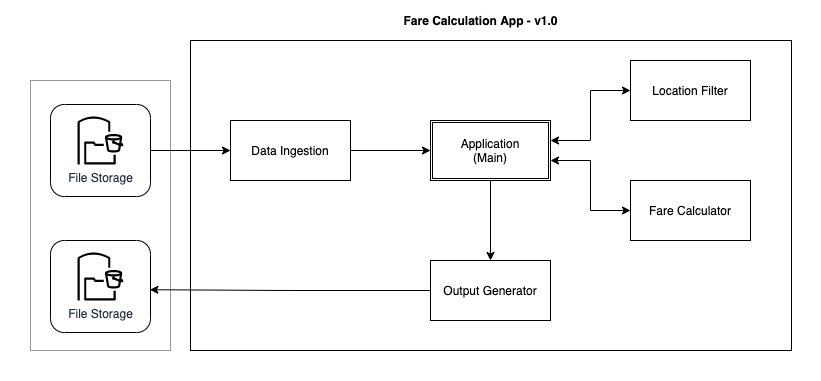
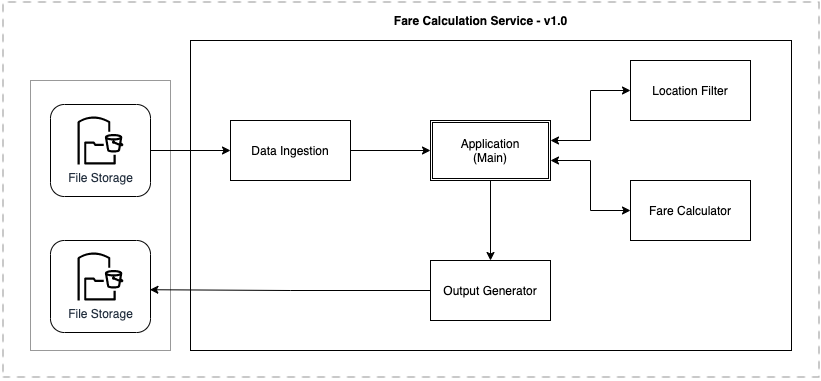
Completed Docs, #8

diff --git a/README.md b/README.md
@@ -1,1 +1,99 @@
 # Fare Calculation Service #
+
+
+[![Build, Test](https://github.com/naeemark/fare-calculation-service/actions/workflows/cicd.yaml/badge.svg)](https://github.com/naeemark/fare-calculation-service/actions/workflows/cicd.yaml)
+[![Coverage](https://sonarcloud.io/api/project_badges/measure?project=naeemark_fcs&metric=coverage)](https://sonarcloud.io/summary/new_code?id=naeemark_fcs)
+[![Quality Gate Status](https://sonarcloud.io/api/project_badges/measure?project=naeemark_fcs&metric=alert_status)](https://sonarcloud.io/summary/new_code?id=naeemark_fcs)
+
+Demonstration of Requirements understanding, proposing a solution and implementation by using the latest tools and techniques.
+
+---
+
+## Distribution ##
+- A Dockerized `maven` application.
+- **[Sonar Project](https://sonarcloud.io/dashboard?id=naeemark_fcs)** - **Bonus Requirement**
+
+---
+
+### What is this repository for? ###
+
+* This app is built as assignment for Beat - NL.
+* Adds different libs to enhance the application quality and performance.
+* CI/CD Demonstration using [Github Actions](https://github.com/features/actions)
+* Docker containers are used for Packaging and execution
+* Version 1.0.0
+
+---
+
+### Problem Statement:
+- Provide a solution to estimate ride fares as per the provided scenarios.
+
+---
+### Proposed Solution:
+
+- By keeping the provided instructions in mind, I would prefer to build a Java application for the implementation of required functionality.
+- For unit testing, I would prefer to use JUnit and Mockito.
+
+### Architecture Diagram
+![App Architecture](screenshots/fare-calculation-app.png)
+
+#### Services
+- **Data Ingestion**: Responsible for reading the input data
+- **Location Filtration**: Responsible for sanitization of locations of rides
+- **Fare Calculator**: Responsible to calculate the fare as per the provided instructions
+- **Application**: A main class to perform the end to end functionality
+
+
+### Development Cycle:
+- Distributes the whole development into Small tasks
+- [Each Issue](https://github.com/naeemark/fare-calculation-service/issues?q=is%3Aissue) shows a feature
+- [Each commit](https://github.com/naeemark/fare-calculation-service/commits/main) shows a small progress
+- [Pull Requests](https://github.com/naeemark/fare-calculation-service/pulls?q=is%3Apr+is%3Aclosed) are done for major tasks
+
+## How do I get Run? ##
+
+### How to set up
+To set-up locally the project locally you need to clone this repo, from `main` branch or some latest `TAG`
+
+### Configuration
+- Please sync and resolve the `maven` dependencies
+- Run `mvn clean install`
+- To run tests `mvn clean test`
+
+
+### Using Docker Compose
+- `docker-compose up --build` will do the magic for you, you may skip `--build` after the first time
+- [Docker-compose](docker-compose.yaml) file includes required parameter of sample input in `command` section
+  - For testing purpose, provide sample data is also included in repo
+    - [Input Data](data/paths.csv)
+    - [Output Data](data/paths.csv.output)
+- After the execution the docker container will be stopped.
+
+
+### How the Solution Works
+- **A:** Docker compose command leads to invoke the `Application::main()` along with the arguments containing path to input data file.
+- **B:** At first step, the application reads the `locations` data from the provided CSV
+- **C:** Secondly, same service is called again to split the `locations-data-list` into smaller, as per the rideIds of locations.
+- **D:** On the next stage, another service is invoked, which performs a full sanitization on all the ride location lists, and it also adds calculated attributes(i.e duration, speed, distance) to the Models to avoid re-processing.
+- **E:** Now the next service is used to calculate the faire for each step/location for every ride.
+- **F:** Lastly, the estimated fare is written to an output file in same directory of input along with respective rideId.
+
+### Pre-reqs
+- JDK 1.8
+- Docker
+- Junit
+- IntelliJ IDEA
+
+
+### Tools Included
+- Jacoco
+- Sonar
+- Github Actions
+
+
+## External Tools: ##
+
+- **[Github Actions](https://github.com/features/actions)**
+- **[Docker](https://www.docker.com/)**
+- **[Docker Compose](https://docs.docker.com/compose/)**
+- **[SonarCould](https://sonarcloud.io/)**
